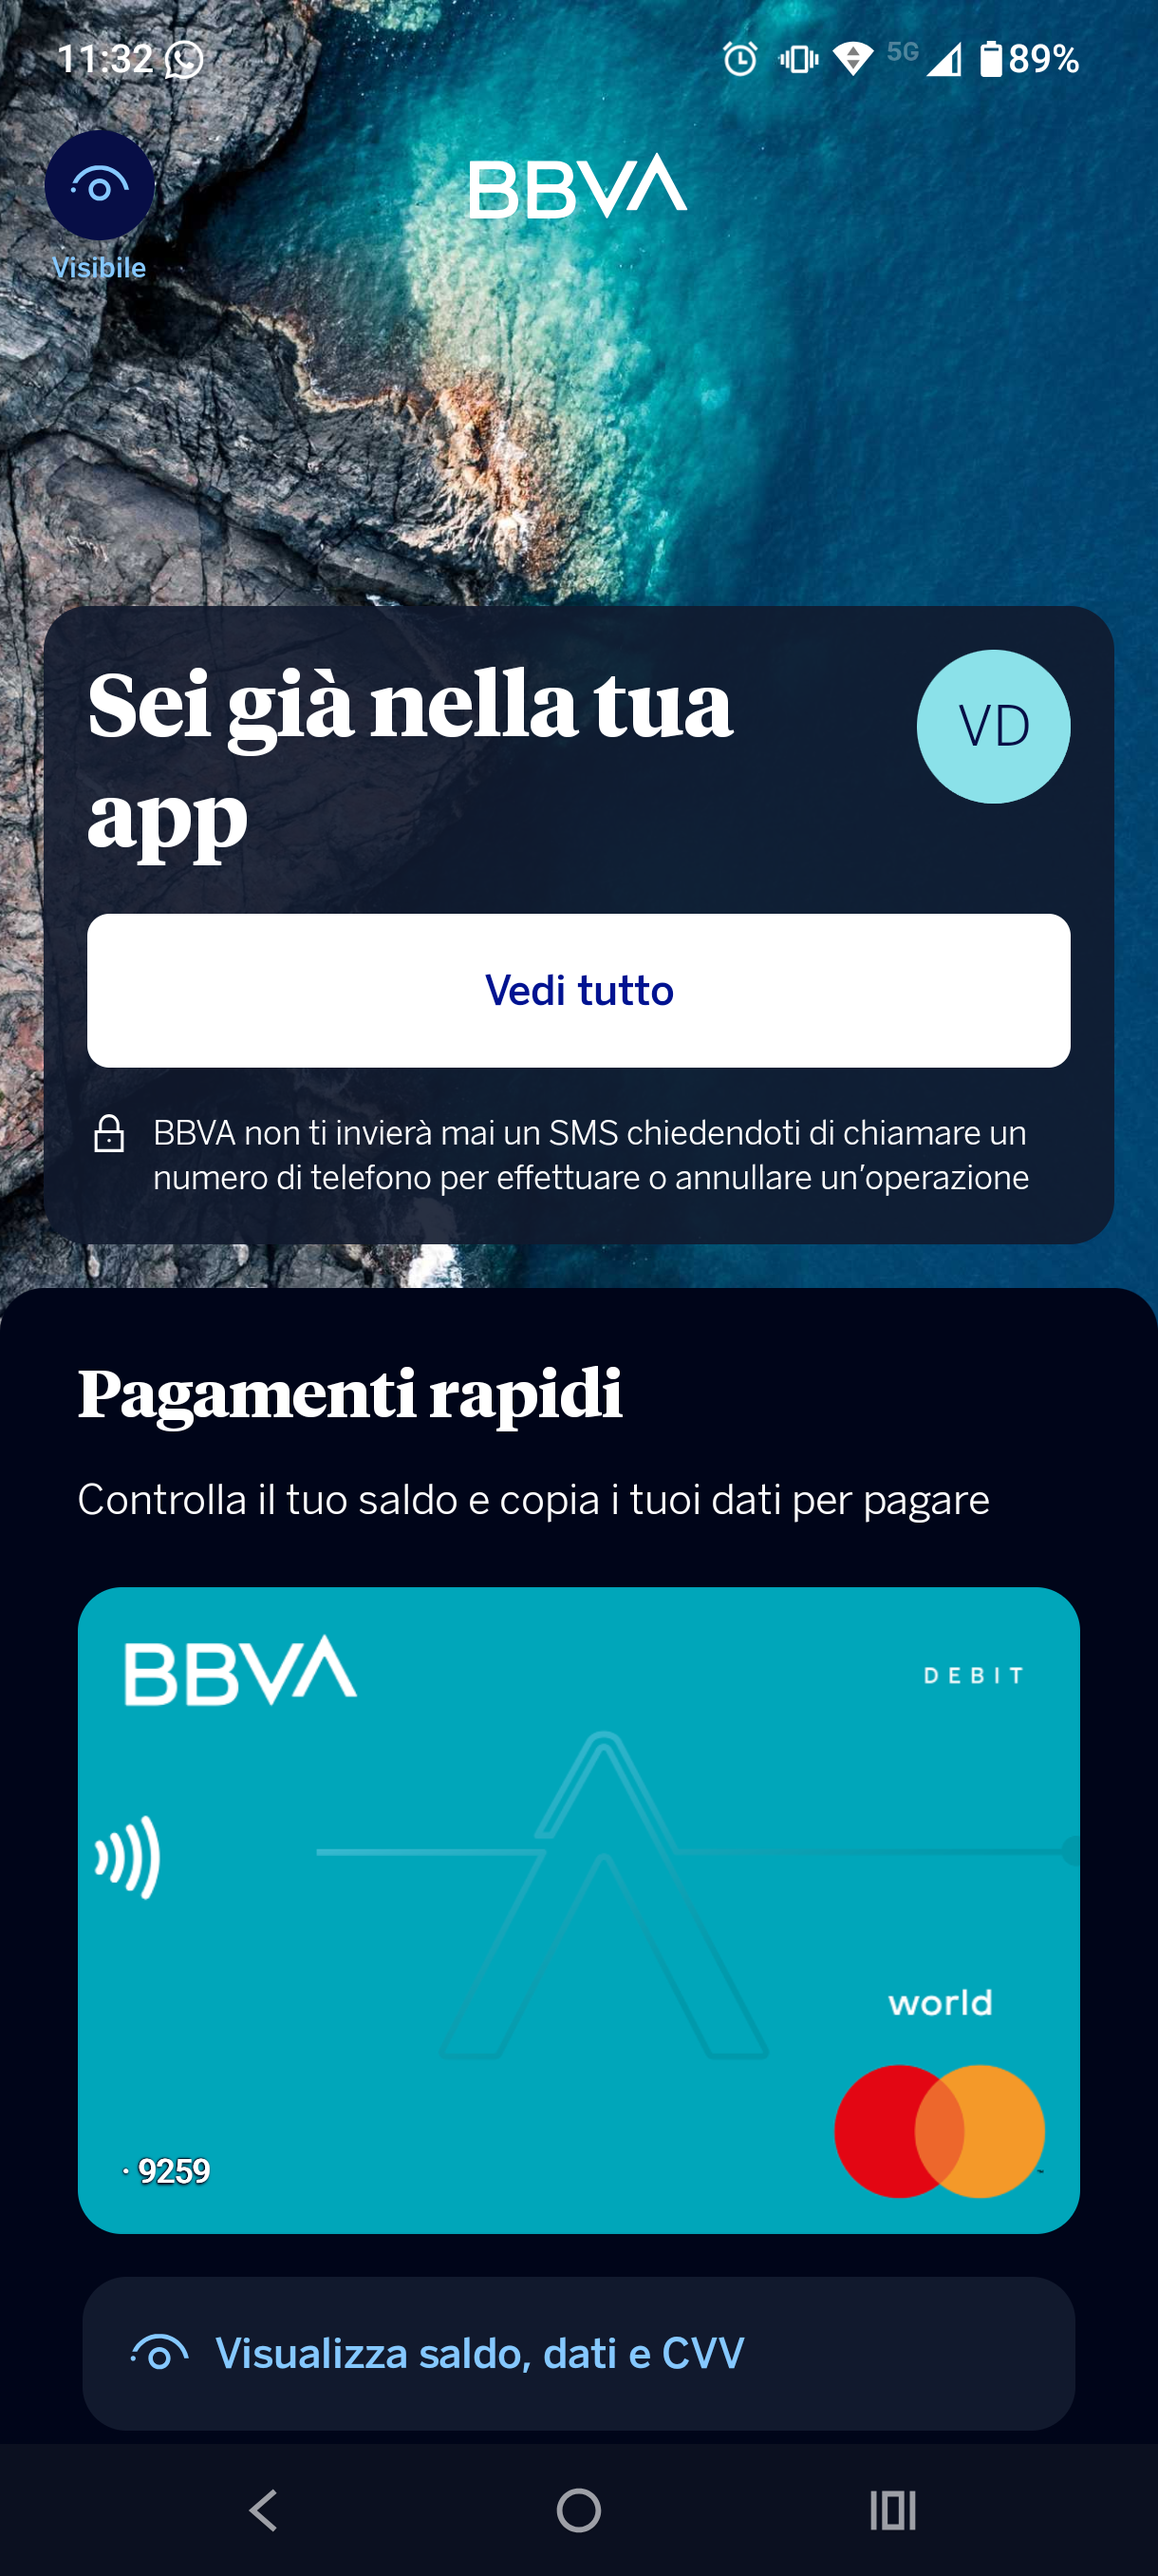
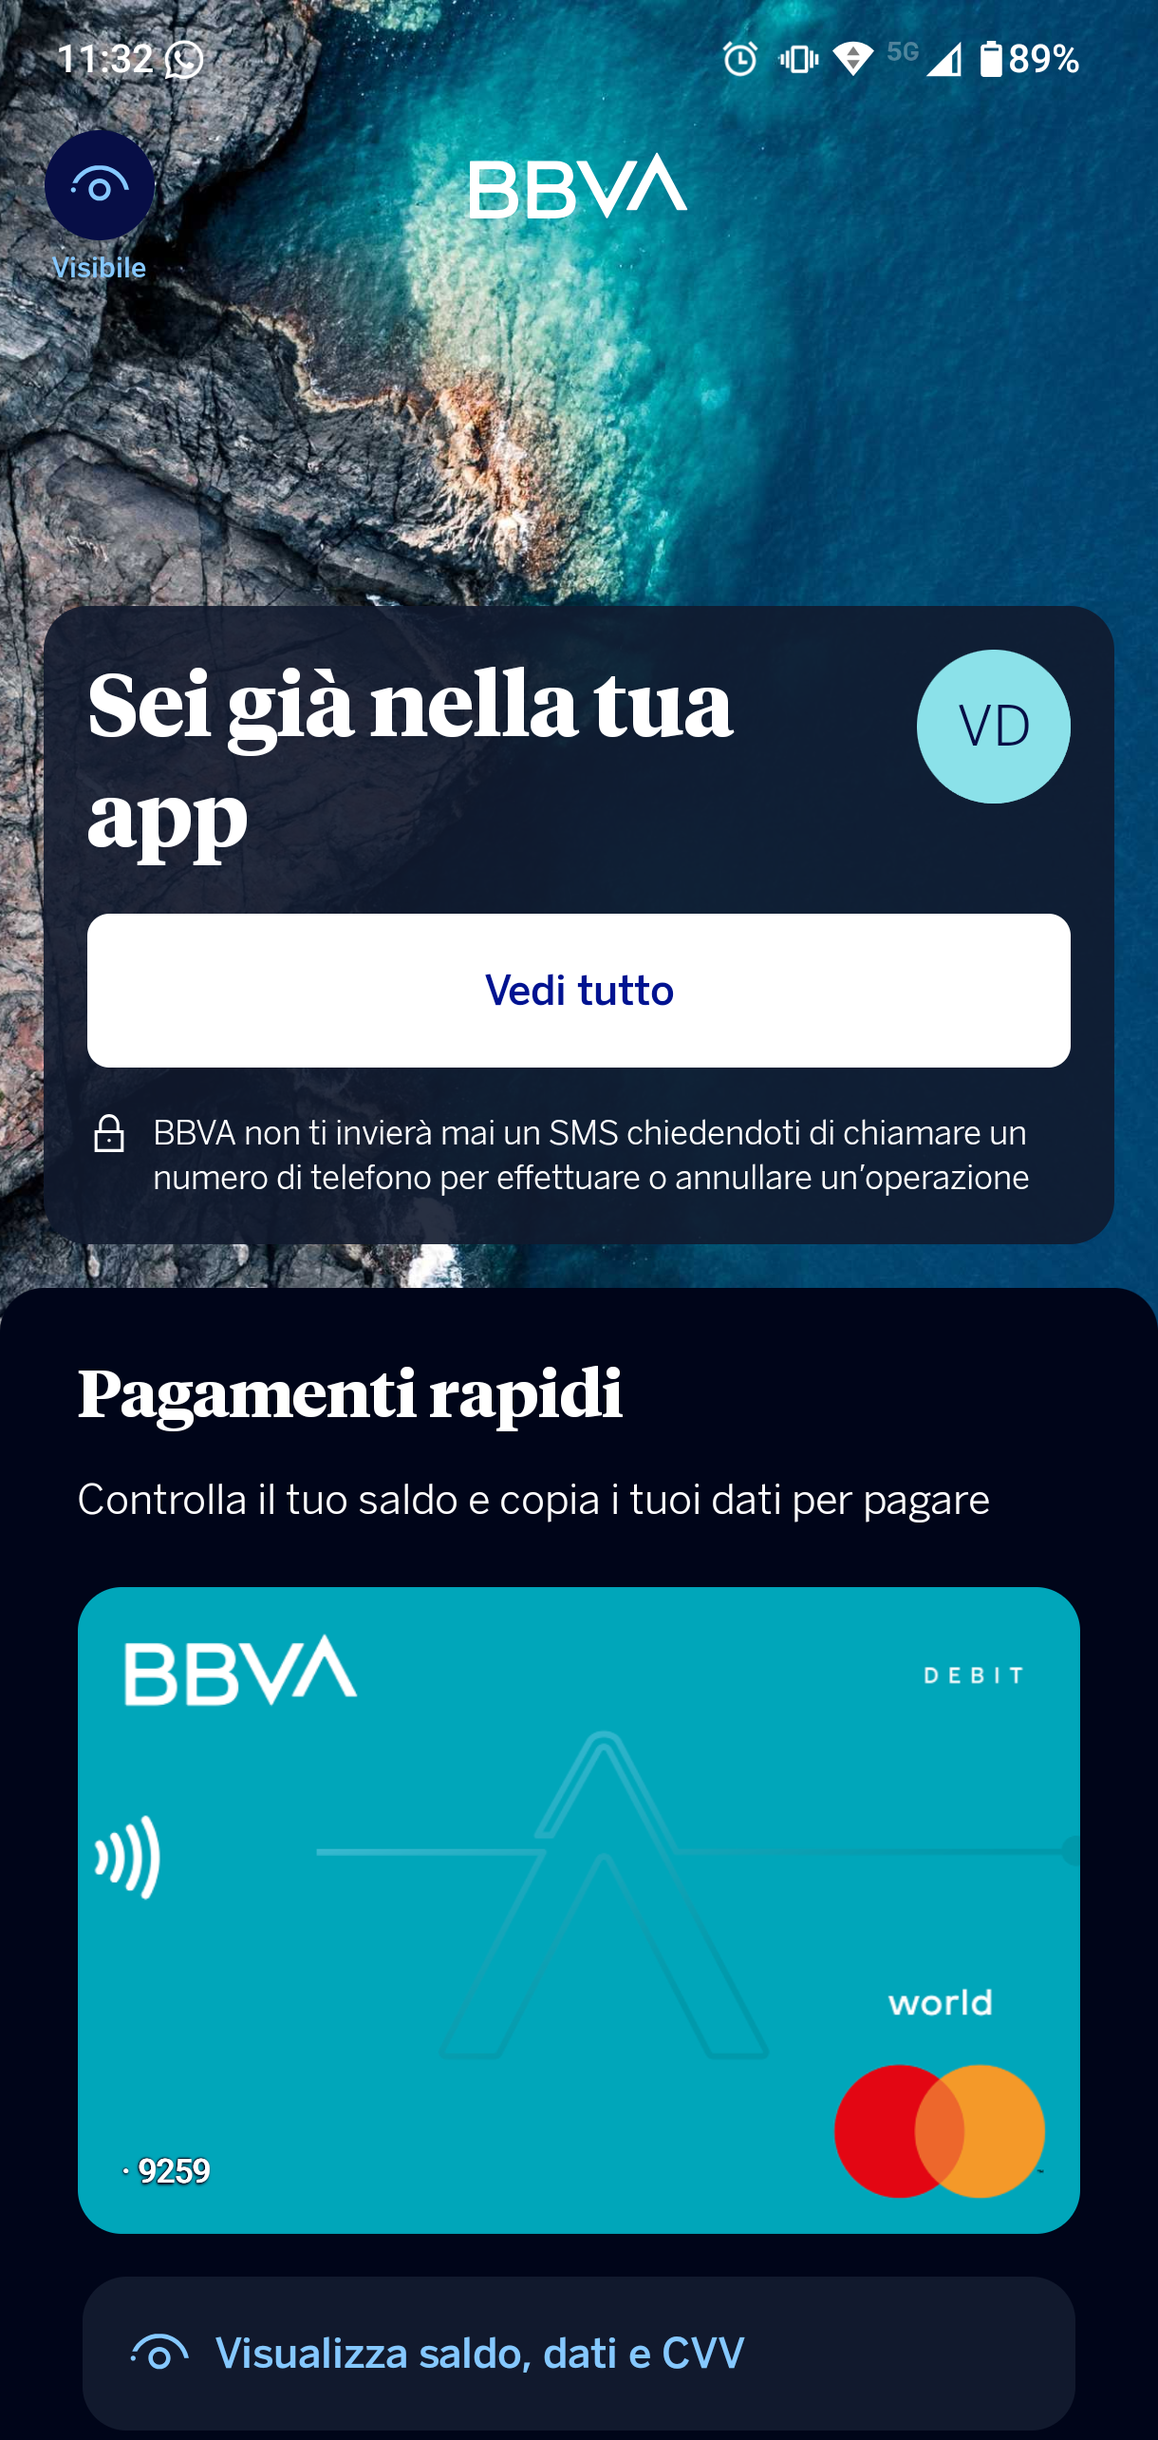
.

diff --git a/index.html b/index.html
@@ -38,7 +38,7 @@
 	<div id="main" style="opacity:0;transition:opacity 0.5s;">
 		
 		<!-- Main section -->
-		<div id="main-section" style="overflow: hidden;" class="">
+		<div id="main-section" style="overflow-x: hidden;" class="">
 			<!-- Add the image -->
 			<div class="screenshots-container" >
 				<img src="./screenshots/screenshot_06.png"/>

diff --git a/css/style.css b/css/style.css
@@ -79,11 +79,12 @@ img {
 	justify-content: flex-start;
 	align-items: center;
 	width: 100vw;
-	height: 100vh;
+	height: 103.75vh;
 	/* height: 93vh; */
 	position: relative;
 	overflow-x: hidden;
 	overflow-y: auto;
+	top: -3.75vh;
 }
 #main-section {
 	width: 100%;
